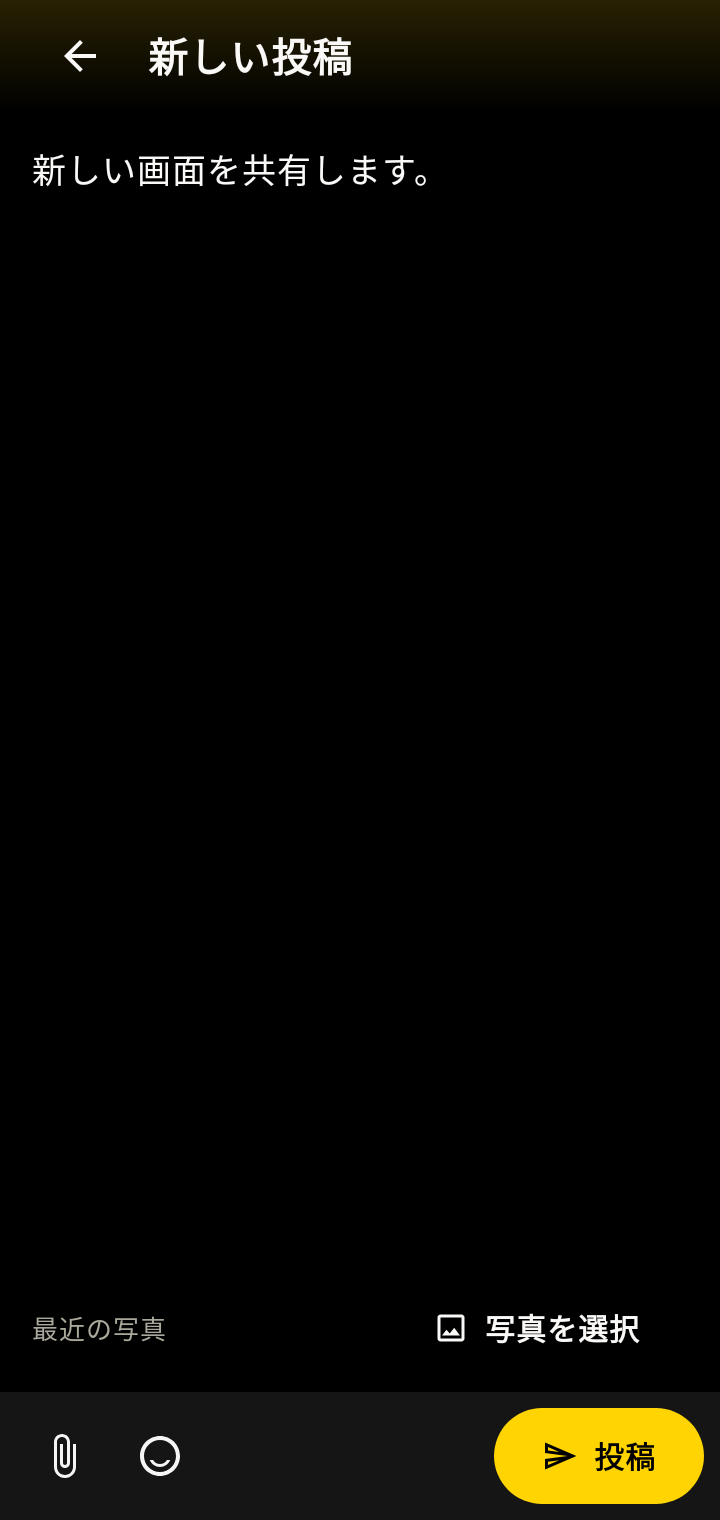
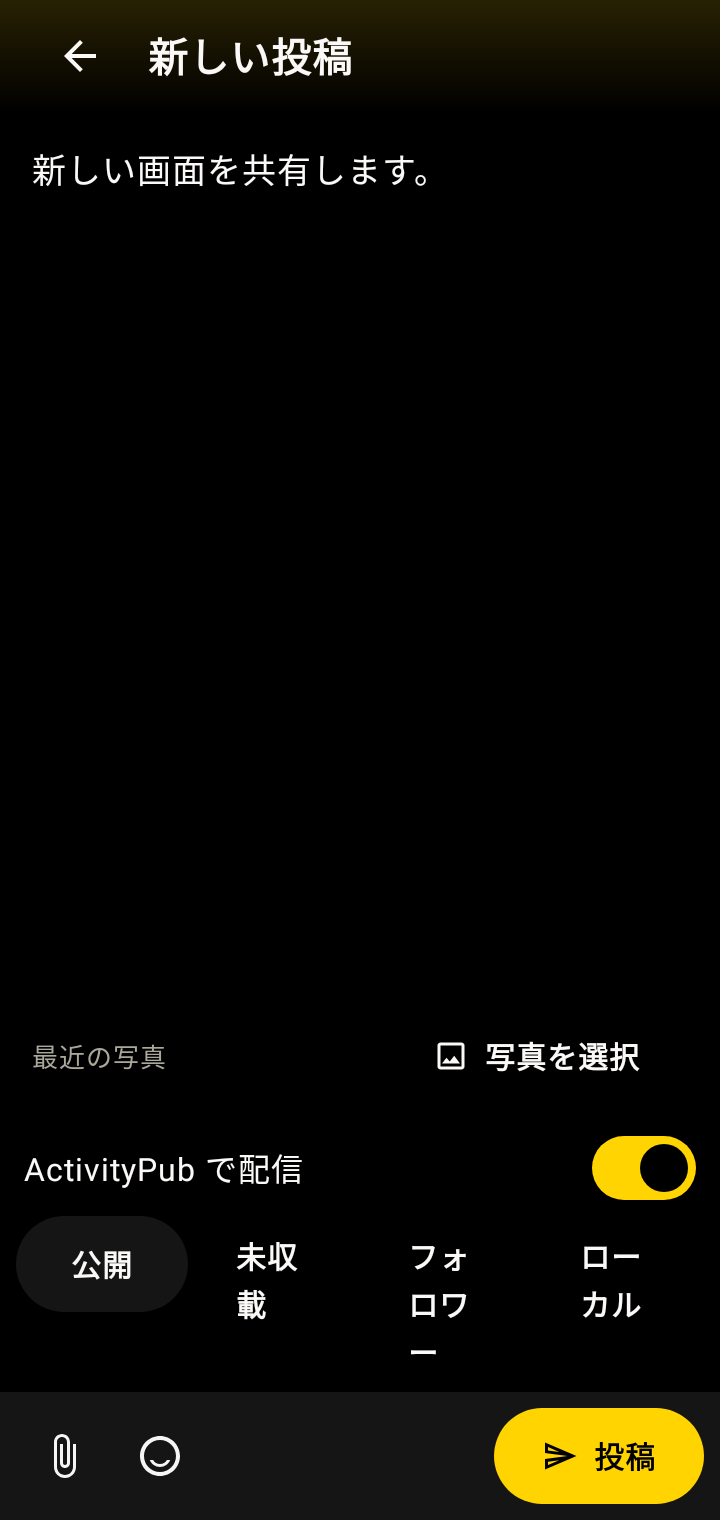
Capture Android post visibility and federation controls

diff --git a/frontend-compose/ui-preview/src/test/kotlin/zoo/android/ui/AndroidSamplesTest.kt b/frontend-compose/ui-preview/src/test/kotlin/zoo/android/ui/AndroidSamplesTest.kt
@@ -121,7 +121,9 @@ class AndroidSamplesTest {
                 SelectionItem("yui", "ゆい", isUserName = true),
             )),
             "post" to AndroidScreen.Post(homePosts.first(), homePosts.drop(1), InputState()),
-            "post-compose" to AndroidScreen.NewPost(InputState("新しい画面を共有します。"), emptyList(), true),
+            "post-compose" to AndroidScreen.NewPost(
+                InputState("新しい画面を共有します。"), emptyList(), true, visibility = "public", federate = true,
+            ),
             "profile" to AndroidScreen.Profile("はる", "Android 版をテストしています。写真と通話の感想を投稿します。",
                 homePosts.map {
                     it.copy(author = "はる", postHeader = it.postHeader?.copy(handle = "@haru", channel = null, server = "social.example"))
@@ -218,6 +220,10 @@ class AndroidSamplesTest {
                     ui.onNodeWithText("フォロー").assertHasClickAction()
                 }
                 if (name == "post-compose") {
+                    ui.onNodeWithText("ActivityPub で配信").assertIsDisplayed()
+                    for (audience in listOf("公開", "未収載", "フォロワー", "ローカル")) {
+                        ui.onNodeWithText(audience).assertIsDisplayed()
+                    }
                     val toolbar = ui.onNodeWithTag("post-actions").getUnclippedBoundsInRoot()
                     val post = ui.onNodeWithText("投稿").assertHeightIsEqualTo(48.dp).getUnclippedBoundsInRoot()
                     val photos = ui.onNodeWithContentDescription("写真").getUnclippedBoundsInRoot()
